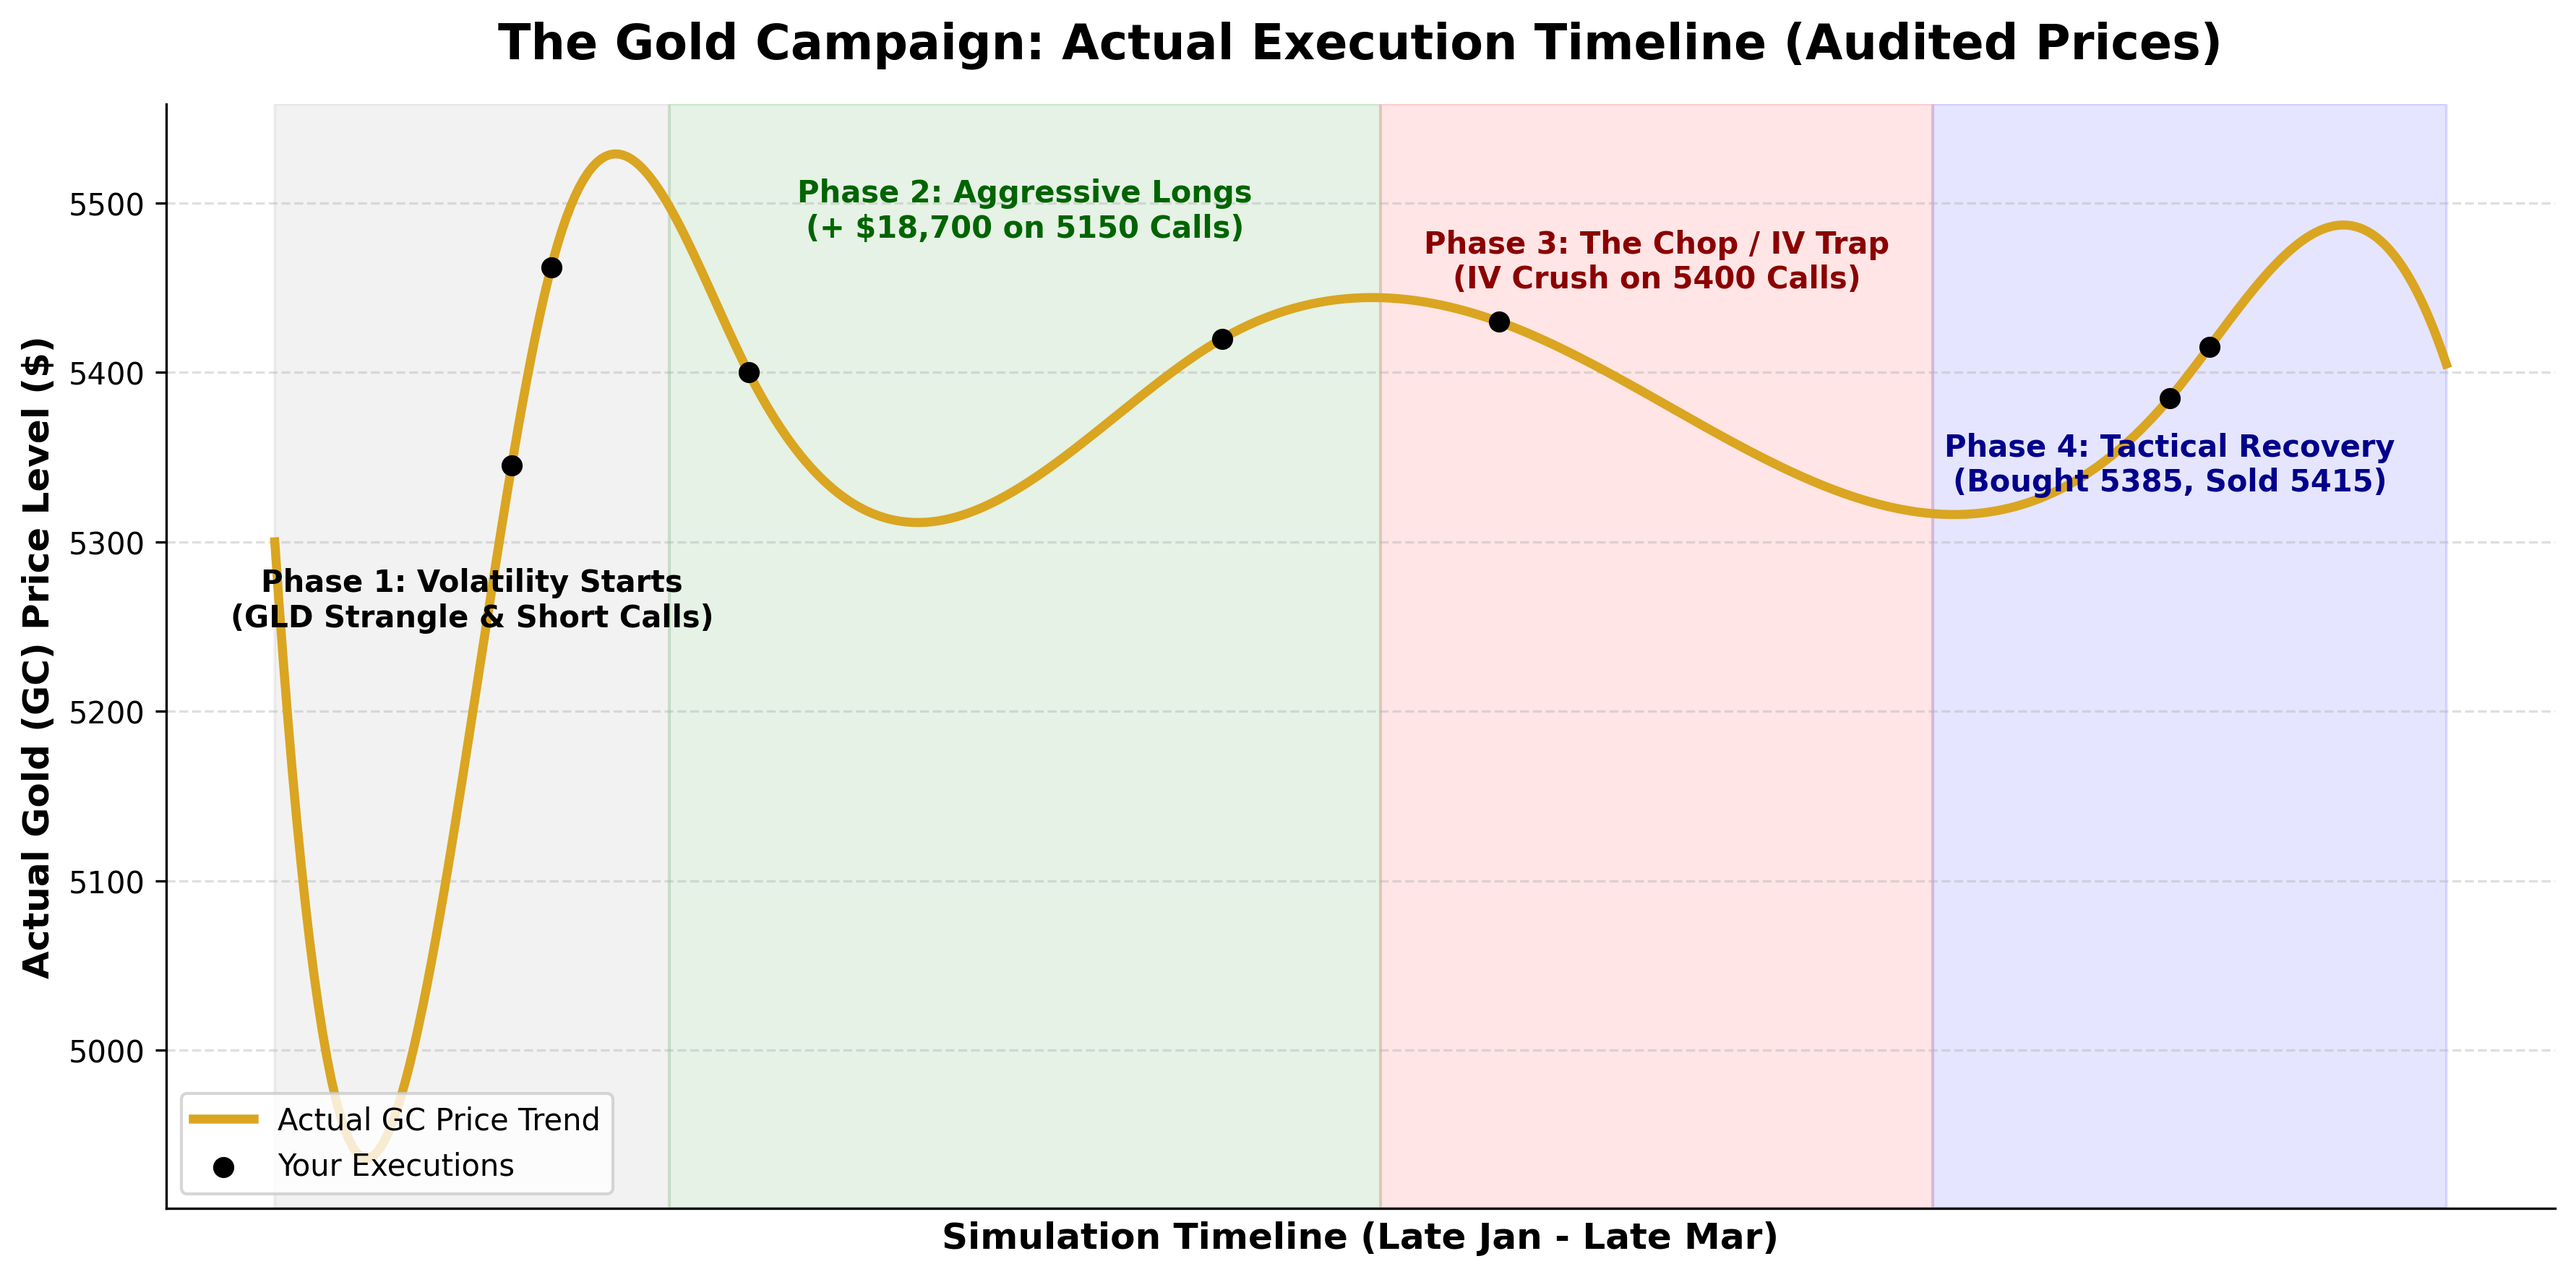
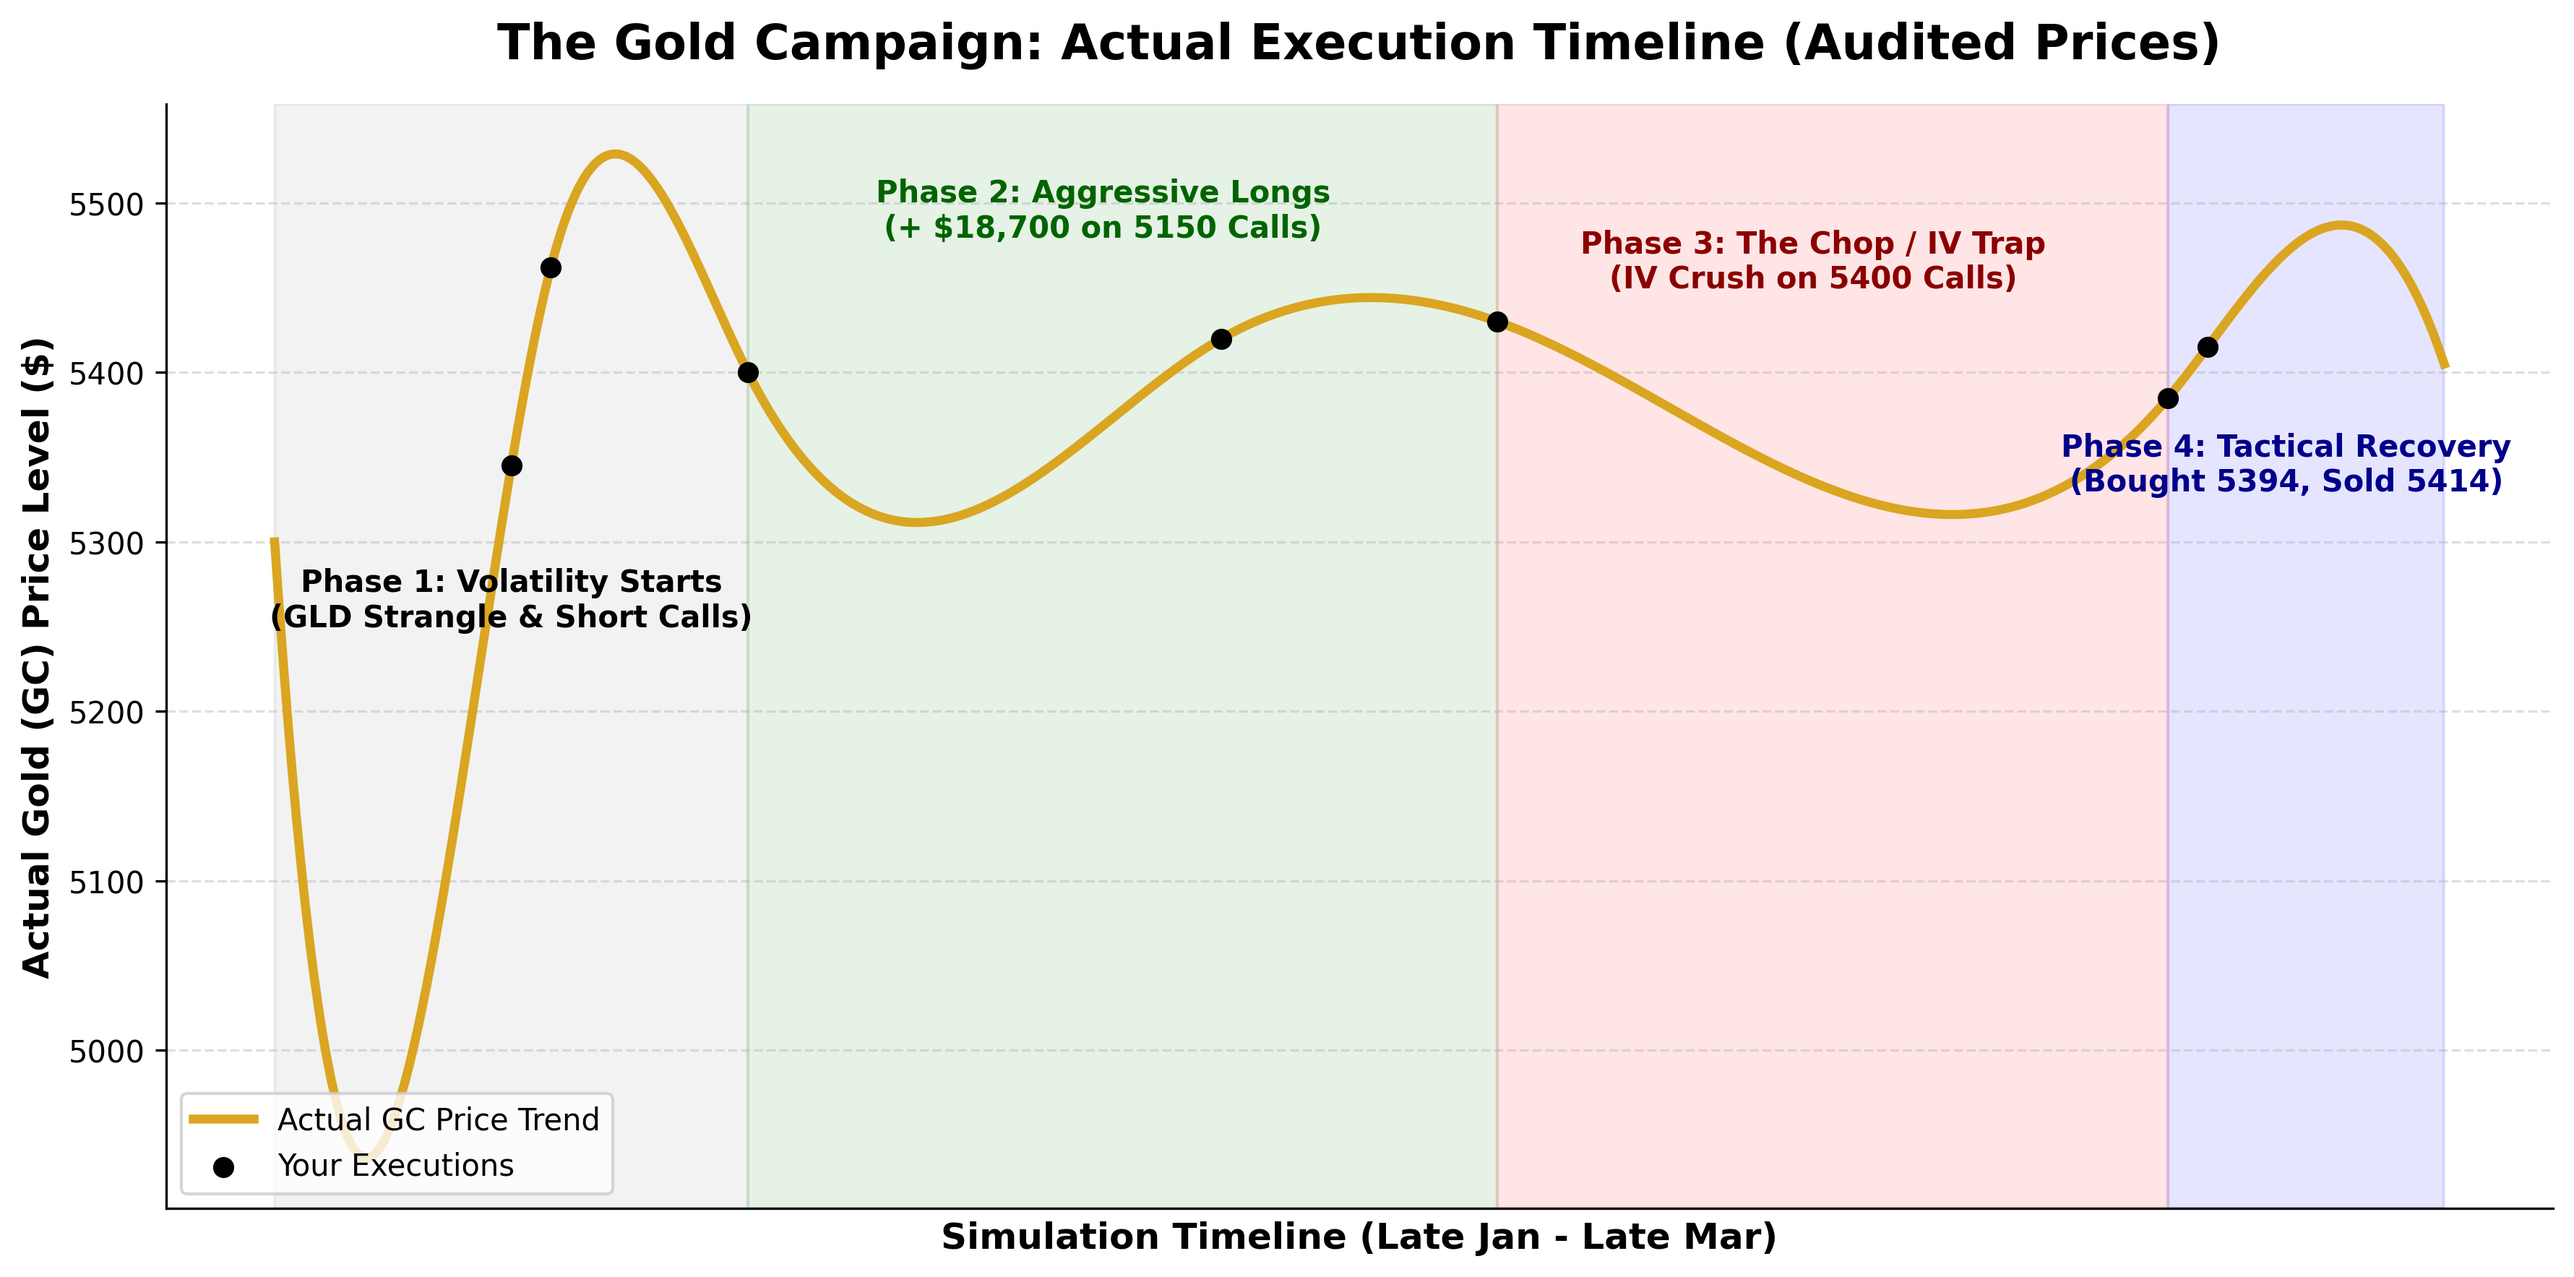
Updated gold

Changed region(s): [[0.3116, 0.0623, 0.966, 0.9649], [0.0935, 0.4358, 0.3116, 0.498]]

diff --git a/Gold/gold-timeline.py b/Gold/gold-timeline.py
@@ -24,21 +24,21 @@ ax.plot(smooth_days, smooth_prices, color='goldenrod', linewidth=3, label='Actua
 # Plot your actual transaction points on the curve
 ax.scatter(timeline_days[1:8], actual_prices[1:8], color='black', zorder=5, label='Your Executions')
 
-# Highlight Phase 1: Rangebound Premium Collection (Jan 30 - Feb 6)
-ax.axvspan(0, 10, color='gray', alpha=0.1)
-ax.annotate('Phase 1: Volatility Starts\n(GLD Strangle & Short Calls)', xy=(5, 5250), ha='center', fontsize=10, fontweight='bold')
+# Highlight Phase 1: Rangebound Premium Collection (Jan 30 - Feb 11)
+ax.axvspan(0, 12, color='gray', alpha=0.1)
+ax.annotate('Phase 1: Volatility Starts\n(GLD Strangle & Short Calls)', xy=(6, 5250), ha='center', fontsize=10, fontweight='bold')
 
-# Highlight Phase 2: The Breakout (Feb 11 - Feb 23)
-ax.axvspan(10, 28, color='green', alpha=0.1)
-ax.annotate('Phase 2: Aggressive Longs\n(+ $18,700 on 5150 Calls)', xy=(19, 5480), ha='center', fontsize=10, fontweight='bold', color='darkgreen')
+# Highlight Phase 2: The Breakout (Feb 11 - Mar 2)
+ax.axvspan(12, 31, color='green', alpha=0.1)
+ax.annotate('Phase 2: Aggressive Longs\n(+ $18,700 on 5150 Calls)', xy=(21, 5480), ha='center', fontsize=10, fontweight='bold', color='darkgreen')
 
-# Highlight Phase 3: The Peak-IV Trap (March 2 - March 15)
-ax.axvspan(28, 42, color='red', alpha=0.1)
-ax.annotate('Phase 3: The Chop / IV Trap\n(IV Crush on 5400 Calls)', xy=(35, 5450), ha='center', fontsize=10, fontweight='bold', color='darkred')
+# Highlight Phase 3: The Peak-IV Trap (March 2 - March 19)
+ax.axvspan(31, 48, color='red', alpha=0.1)
+ax.annotate('Phase 3: The Chop / IV Trap\n(IV Crush on 5400 Calls)', xy=(39, 5450), ha='center', fontsize=10, fontweight='bold', color='darkred')
 
-# Highlight Phase 4: Recovery & Discipline (March 16+)
-ax.axvspan(42, 55, color='blue', alpha=0.1)
-ax.annotate('Phase 4: Tactical Recovery\n(Bought 5385, Sold 5415)', xy=(48, 5330), ha='center', fontsize=10, fontweight='bold', color='darkblue')
+# Highlight Phase 4: Recovery & Discipline (March 19+)
+ax.axvspan(48, 55, color='blue', alpha=0.1)
+ax.annotate('Phase 4: Tactical Recovery\n(Bought 5394, Sold 5414)', xy=(51, 5330), ha='center', fontsize=10, fontweight='bold', color='darkblue')
 
 # Formatting
 ax.set_title('The Gold Campaign: Actual Execution Timeline (Audited Prices)', fontsize=16, fontweight='bold', pad=15)
